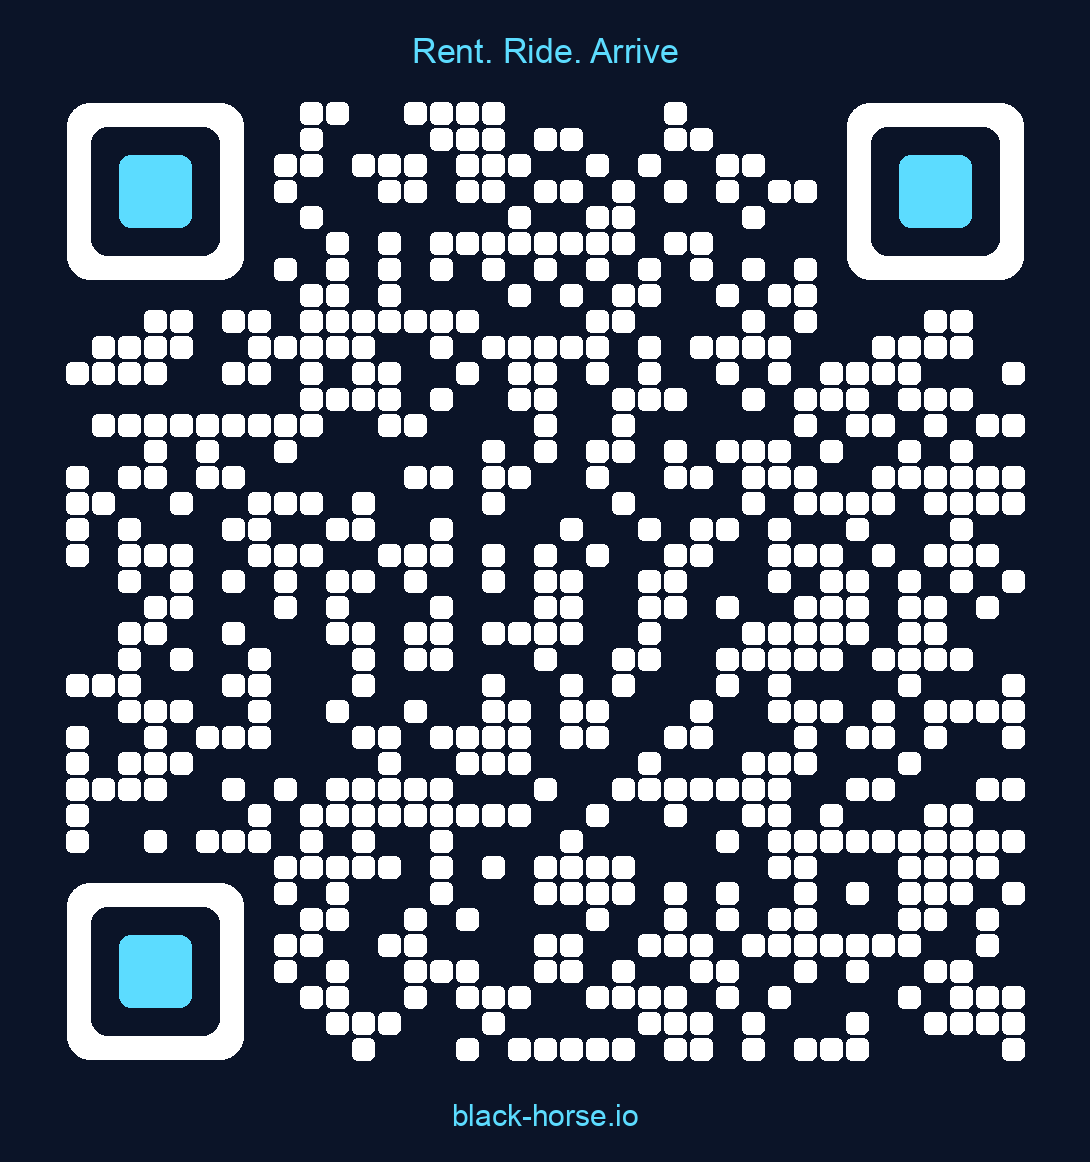
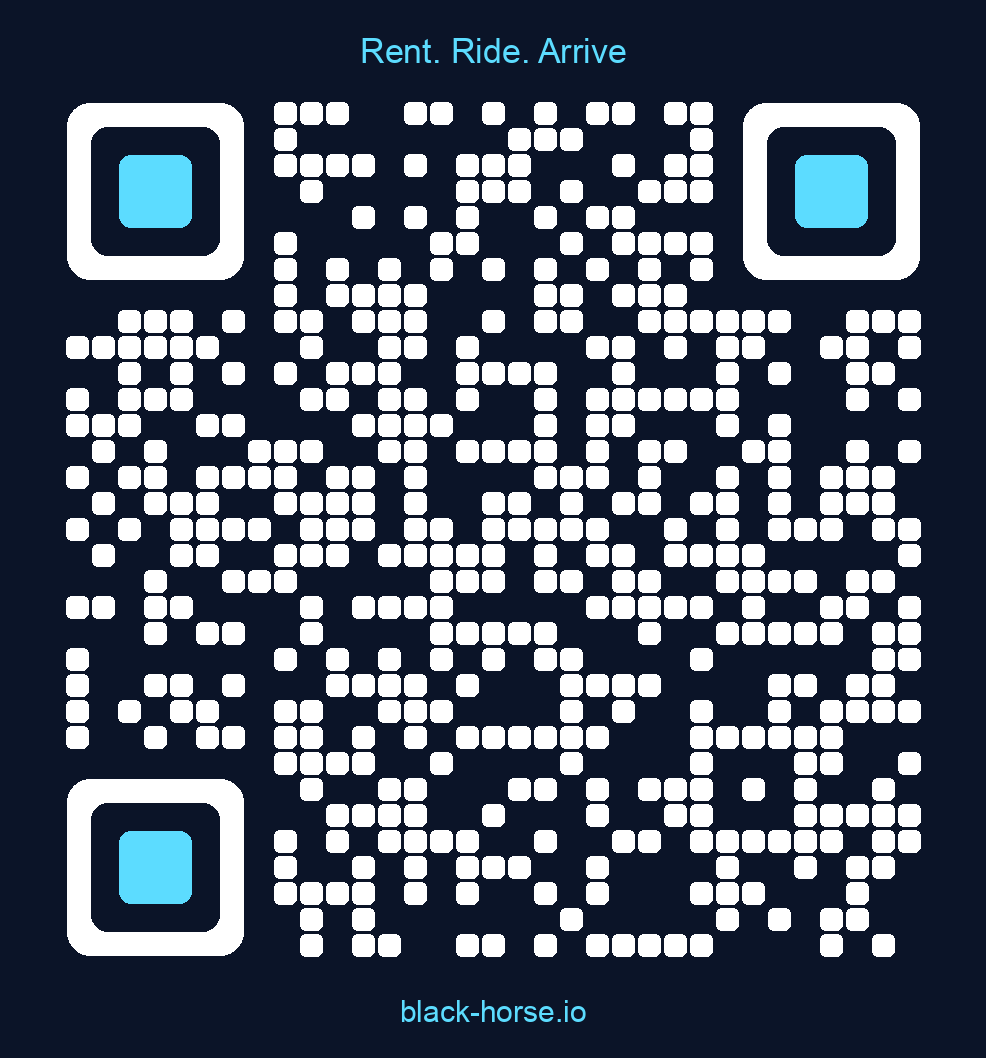
Point Tech in Ghana QR at bhredirect.vercel.app.
Use the dedicated Black Horse redirect project instead of the lomeguide short path.

diff --git a/scripts/generate-black-horse-qr.py b/scripts/generate-black-horse-qr.py
@@ -1,7 +1,7 @@
 #!/usr/bin/env python3
 """Generate a Black Horse–styled QR code (white modules, cyan finder centers).
 
-Encodes https://lomeguide.vercel.app/go/techinghana which redirects to the
+Encodes https://bhredirect.vercel.app which redirects to the
 Black Horse rentals deep link.
 """
 
@@ -13,7 +13,7 @@ import qrcode
 from PIL import Image, ImageDraw, ImageFont
 from qrcode.constants import ERROR_CORRECT_H
 
-URL = "https://lomeguide.vercel.app/go/techinghana"
+URL = "https://bhredirect.vercel.app"
 OUT = Path(__file__).resolve().parents[1] / "public" / "qr" / "techinghana-black-horse.png"
 
 NAVY = (11, 20, 40, 255)  # #0B1428
